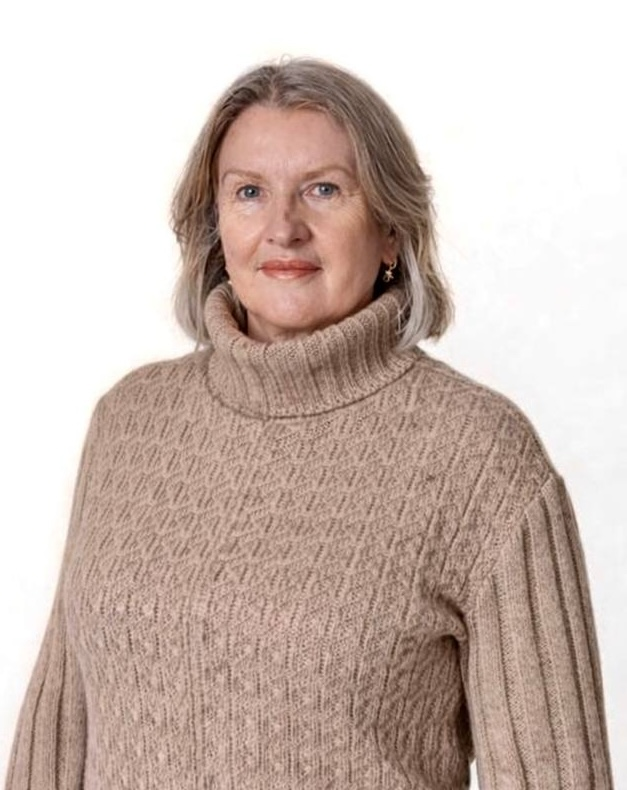
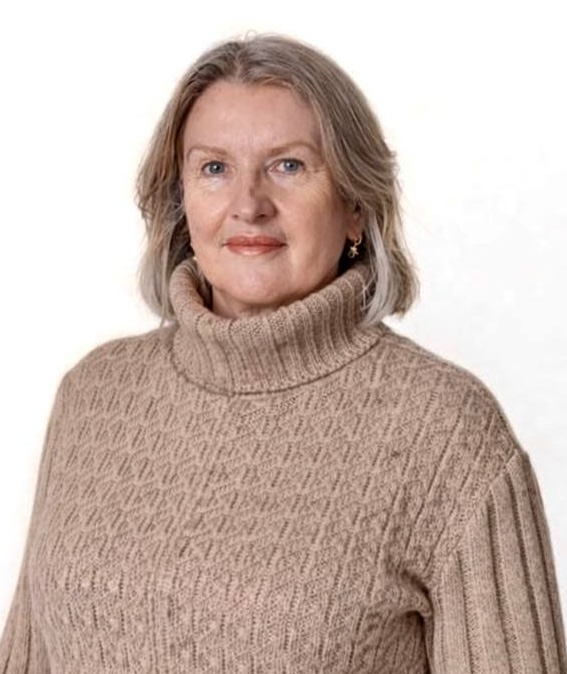
i18n: додати відсутні переклади хронології життя кафедри (EN/DE/FR)
Синхронізовано 42 ключі life.* з українською версією. Оновлено фото faculty-11.

Made-with: Cursor

Changed region(s): [[0.0, 0.0312, 1.0, 1.0]]

diff --git a/translations.js b/translations.js
@@ -876,6 +876,48 @@ window.BPBV_TRANSLATIONS = {
     'life.t6Date': '2023–2024',
     'life.t6Title': 'More events and excursions',
     'life.t6Text': 'Department students regularly visit production sites, take part in scientific conferences, tastings and masterclasses, gaining practical experience in real-world conditions.',
+    'life.t2bDate': '29 September 2024',
+    'life.t2bTitle': 'Lecture «From region to market» — geographical indications',
+    'life.t2bText': 'With support from Prof. Vitalii Prybylskyi, a lecture was held on «From region to market: geographical indications as a tool for promoting Ukrainian goods» within the «IP Connecting Students» project.',
+    'life.tSommelierDate': '2025',
+    'life.tSommelierTitle': 'Visit to the final of «Ukraine\'s Best Sommelier 2025»',
+    'life.tSommelierText': 'At the invitation of master\'s student Ivan Bachurin, department representatives Maryna Bilko and Roman Mukoid attended the competition final. The event brought together professionals from various fields.',
+    'life.tParisDate': 'Paris 2025',
+    'life.tParisTitle': 'Young wine tasters\' competition at Salon International De L\'Agriculture',
+    'life.tParisText': 'Students Vladyslav Mylnykov and Mariia Lytovchenko represented Ukraine at the international competition in Paris. The delegation was led by Prof. Maryna Bilko.',
+    'life.tNapoiDate': '2024–2025',
+    'life.tNapoiTitle': 'Business meeting «Beverages of Ukraine. Tea and coffee»',
+    'life.tNapoiText': 'NUFT lecturers took part in the business meeting. Assoc. Prof. Roman Mukoid moderated the discussion panel.',
+    'life.tMarulloDate': '2024',
+    'life.tMarulloTitle': 'Guest lecture by PhD Philip Marullo (Biolaffort, ISVV Bordeaux)',
+    'life.tMarulloText': 'Lecture within the joint project of UkrWineIndustry and NUFT. The topic was innovative microbiological approaches in white wine production.',
+    'life.tVarvar3Date': '2024',
+    'life.tVarvar3Title': 'Third-year students at Varvar brewery',
+    'life.tVarvar3Text': 'Third-year students and curator Roman Mukoid visited the Varvar brewery. The tour was led by chief brewer Anton Palamarchuk and chief technologist Olena Deryi.',
+    'life.tNemiroff3Date': '8 April 2024',
+    'life.tNemiroff3Title': 'Third-year students meet Nemiroff representatives',
+    'life.tNemiroff3Text': 'The department hosted a meeting of third-year students with representatives of Nemiroff (LVN LIMITED LLC). Agreements were reached on internships and employment.',
+    'life.tChervonoDate': '4 April 2024',
+    'life.tChervonoTitle': 'Excursion to Chervonoslobidskyi distillery',
+    'life.tChervonoText': 'Third-year students visited the Chervonoslobidskyi distillery state enterprise. The tour was guided by department graduate Ivan Dmytrovych Balokha.',
+    'life.tNemiroff2Date': '2024',
+    'life.tNemiroff2Title': 'Second-year students meet Nemiroff',
+    'life.tNemiroff2Text': 'The department organized a meeting of second-year students with Nemiroff representatives. The company is ready to offer internship opportunities.',
+    'life.tOPPDate': '24 January 2024',
+    'life.tOPPTitle': 'Educational programme working group session',
+    'life.tOPPText': 'Programme guarantor Prof. Vitalii Prybylskyi familiarized participants with the requirements for drafting the new edition of the educational programme.',
+    'life.tVashchukDate': '30 October 2023',
+    'life.tVashchukTitle': 'Guest lecture by Viktor Vashchuk (Silpo private breweries)',
+    'life.tVashchukText': 'Assoc. Prof. Roman Mukoid invited Viktor Vashchuk, project lead of «Silpo private breweries». Topic: «Current state and prospects of beer production in Ukraine and worldwide».',
+    'life.tVarvar17Date': '17 October 2023',
+    'life.tVarvar17Title': 'Visit to Varvar brewery mini-brewery (year 3)',
+    'life.tVarvar17Text': 'Students of groups TB-3-8 and TB-3-9sk visited the Varvar mini-brewery. The tour was led by chief microbiologist Olena Derii.',
+    'life.tBeer1Date': '2023',
+    'life.tBeer1Title': 'First-years at BeerMaster brewery',
+    'life.tBeer1Text': 'First-year students together with Assoc. Prof. Mykola Bondar visited BeerMaster brewery. The tour was led by chief technologist Oleksandr Rudenko.',
+    'life.tEatEasyDate': '11 October 2023',
+    'life.tEatEasyTitle': 'Introduction to kombucha technology at Eat Easy',
+    'life.tEatEasyText': 'First-year students together with Assoc. Prof. Mykola Bondar visited Eat Easy. Yevhen Khomets and Nazar Kosikovskyi introduced them to kombucha technology and laboratory work.',
     'gallery.tag': 'Gallery',
     'gallery.title': 'Highlights of <em>department life</em>',
     'cta.title': 'Ready to start your path in the world of fermentation?',
@@ -1297,6 +1339,48 @@ window.BPBV_TRANSLATIONS = {
     'life.t6Date': '2023–2024',
     'life.t6Title': 'Weitere Veranstaltungen und Exkursionen',
     'life.t6Text': 'Die Studierenden des Lehrstuhls besuchen regelmäßig Produktionsstätten, nehmen an wissenschaftlichen Konferenzen, Verkostungen und Masterclasses teil und sammeln praktische Erfahrung unter realen Bedingungen.',
+    'life.t2bDate': '29. September 2024',
+    'life.t2bTitle': 'Vortrag «Von der Region zum Markt» — geografische Angaben',
+    'life.t2bText': 'Mit Unterstützung von Prof. Witalij Prybylskyj fand ein Vortrag zum Thema «Von der Region zum Markt: geografische Angaben als Instrument zur Förderung ukrainischer Waren» im Rahmen des Projekts «IP Connecting Students» statt.',
+    'life.tSommelierDate': '2025',
+    'life.tSommelierTitle': 'Besuch des Finales «Bester Sommelier der Ukraine 2025»',
+    'life.tSommelierText': 'Auf Einladung des Masterstudierenden Iwan Bachurin nahmen die Vertreterinnen des Lehrstuhls Maryna Bilko und Roman Mukoid am Finale des Wettbewerbs teil. Die Veranstaltung brachte Fachleute aus unterschiedlichen Bereichen zusammen.',
+    'life.tParisDate': 'Paris 2025',
+    'life.tParisTitle': 'Wettbewerb junger Weinverkoster beim Salon International De L\'Agriculture',
+    'life.tParisText': 'Die Studierenden Wladyslaw Mylnykow und Marija Lytowtschenko vertraten die Ukraine beim internationalen Wettbewerb in Paris. Die Delegation wurde von Prof. Maryna Bilko geleitet.',
+    'life.tNapoiDate': '2024–2025',
+    'life.tNapoiTitle': 'Business-Treffen «Getränke der Ukraine. Tee und Kaffee»',
+    'life.tNapoiText': 'Lehrende der NUFT nahmen am Business-Treffen teil. Moderator des Diskussionspanels war Doz. Roman Mukoid.',
+    'life.tMarulloDate': '2024',
+    'life.tMarulloTitle': 'Gastvortrag von PhD Philipp Marullo (Biolaffort, ISVV Bordeaux)',
+    'life.tMarulloText': 'Vortrag im Rahmen des Gemeinschaftsprojekts von Ukrwinprom und NUFT. Thema waren innovative mikrobiologische Ansätze bei der Herstellung von Weißweinen.',
+    'life.tVarvar3Date': '2024',
+    'life.tVarvar3Title': 'Studierende des dritten Studienjahres in der Brauerei Varvar',
+    'life.tVarvar3Text': 'Studierende des dritten Jahres und Kurator Roman Mukoid besuchten die Brauerei «Varvar». Die Führung hielten der Chefbrauer Anton Palamarchuk und die Cheftechnologin Olena Deryi.',
+    'life.tNemiroff3Date': '8. April 2024',
+    'life.tNemiroff3Title': 'Treffen des dritten Jahres mit Vertretern von Nemiroff',
+    'life.tNemiroff3Text': 'Am Lehrstuhl fand ein Treffen von Studierenden des dritten Jahres mit Vertretern der Nemiroff LLC «LVN LIMITED» statt. Vereinbarungen zu Praktika und Beschäftigung wurden erzielt.',
+    'life.tChervonoDate': '4. April 2024',
+    'life.tChervonoTitle': 'Exkursion zur Spiritusbrennerei Tschervonoslobidskyj',
+    'life.tChervonoText': 'Studierende des dritten Jahres besuchten das Staatsunternehmen «Tschervonoslobidskyj Spiritusbetrieb». Die Exkursion führte der Absolvent des Lehrstuhls Iwan Dmytrowytsch Balocha.',
+    'life.tNemiroff2Date': '2024',
+    'life.tNemiroff2Title': 'Treffen des zweiten Jahres mit Nemiroff',
+    'life.tNemiroff2Text': 'Der Lehrstuhl organisierte ein Treffen von Studierenden des zweiten Jahres mit Vertretern von Nemiroff. Das Unternehmen ist bereit, Praktikumsmöglichkeiten anzubieten.',
+    'life.tOPPDate': '24. Januar 2024',
+    'life.tOPPTitle': 'Sitzung der Arbeitsgruppe zum Studienprogramm',
+    'life.tOPPText': 'Der Garant des Programms, Prof. Witalij Prybylskyj, informierte über die Anforderungen an die Ausarbeitung der neuen Fassung des Studienprogramms.',
+    'life.tVashchukDate': '30. Oktober 2023',
+    'life.tVashchukTitle': 'Gastvortrag von Wiktor Waschtschuk («Eigene Brauereien Silpo»)',
+    'life.tVashchukText': 'Doz. Roman Mukoid lud den Projektleiter «Eigene Brauereien Silpo», Wiktor Waschtschuk, ein. Thema: «Aktueller Stand und Perspektiven der Bierproduktion in der Ukraine und weltweit».',
+    'life.tVarvar17Date': '17. Oktober 2023',
+    'life.tVarvar17Title': 'Besuch der Mikrobrauerei Varvar brewery (3. Jahr)',
+    'life.tVarvar17Text': 'Studierende der Gruppen TB-3-8 und TB-3-9sk besuchten die Mikrobrauerei Varvar. Die Führung leitete die Chefmikrobiologin Olena Derii.',
+    'life.tBeer1Date': '2023',
+    'life.tBeer1Title': 'Erstsemester in der Brauerei BeerMaster',
+    'life.tBeer1Text': 'Erstsemester besuchten zusammen mit Doz. Mykola Bondar die Brauerei BeerMaster. Die Führung gab der Cheftechnologe Oleksandr Rudenko.',
+    'life.tEatEasyDate': '11. Oktober 2023',
+    'life.tEatEasyTitle': 'Kennenlernen der Kombucha-Technologie im Unternehmen «Eat Easy»',
+    'life.tEatEasyText': 'Erstsemester besuchten zusammen mit Doz. Mykola Bondar das Unternehmen «Eat Easy». Jewhen Chomez und Nazar Kosikowskyj stellten die Kombucha-Technologie und die Laborarbeit vor.',
     'gallery.tag': 'Galerie',
     'gallery.title': 'Höhepunkte des <em>Lehrstuhl-Lebens</em>',
     'cta.title': 'Bereit für Ihren Weg in der Welt der Gärung?',
@@ -1718,6 +1802,48 @@ window.BPBV_TRANSLATIONS = {
     'life.t6Date': '2023–2024',
     'life.t6Title': 'Encore plus d\'événements et d\'excursions',
     'life.t6Text': 'Les étudiants du département visitent régulièrement des sites de production, participent à des conférences scientifiques, dégustations et master classes, en acquérant une expérience pratique en conditions réelles.',
+    'life.t2bDate': '29 septembre 2024',
+    'life.t2bTitle': 'Conférence «De la région au marché» — indications géographiques',
+    'life.t2bText': 'Avec le soutien du prof. Vitalii Prybylskyi, une conférence a eu lieu sur «De la région au marché : les indications géographiques comme outil de promotion des produits ukrainiens» dans le cadre du projet «IP Connecting Students».',
+    'life.tSommelierDate': '2025',
+    'life.tSommelierTitle': 'Visite de la finale du concours «Meilleur sommelier d\'Ukraine 2025»',
+    'life.tSommelierText': 'Sur invitation du masterand Ivan Bachurin, les représentants du département Maryna Bilko et Roman Mukoid ont assisté à la finale du concours. L\'événement a réuni des professionnels de différents domaines.',
+    'life.tParisDate': 'Paris 2025',
+    'life.tParisTitle': 'Concours de jeunes dégustateurs de vin au Salon International De L\'Agriculture',
+    'life.tParisText': 'Les étudiants Vladyslav Mylnykov et Mariia Lytovchenko ont représenté l\'Ukraine au concours international à Paris. La délégation était dirigée par la prof. Maryna Bilko.',
+    'life.tNapoiDate': '2024–2025',
+    'life.tNapoiTitle': 'Rencontre d\'affaires «Boissons d\'Ukraine. Thé et café»',
+    'life.tNapoiText': 'Des enseignants de la NUFT ont pris part à la rencontre. Le maître de conférences Roman Mukoid a modéré le panel de discussion.',
+    'life.tMarulloDate': '2024',
+    'life.tMarulloTitle': 'Conférence invitée du PhD Philip Marullo (Biolaffort, ISVV Bordeaux)',
+    'life.tMarulloText': 'Conférence dans le cadre du projet conjoint Ukrwinprom et NUFT. Sujet : approches microbiologiques innovantes dans la production de vins blancs.',
+    'life.tVarvar3Date': '2024',
+    'life.tVarvar3Title': 'Étudiants de 3e année à la brasserie Varvar',
+    'life.tVarvar3Text': 'Les étudiants de troisième année et le tuteur Roman Mukoid ont visité la brasserie «Varvar». La visite a été animée par le brasseur en chef Anton Palamarchuk et la cheffe technologue Olena Deryi.',
+    'life.tNemiroff3Date': '8 avril 2024',
+    'life.tNemiroff3Title': 'Rencontre de la 3e année avec des représentants de Nemiroff',
+    'life.tNemiroff3Text': 'Le département a accueilli une rencontre des étudiants de troisième année avec des porte-parole de la SARL «LVN LIMITED» Nemiroff. Accords sur les stages et l\'emploi.',
+    'life.tChervonoDate': '4 avril 2024',
+    'life.tChervonoTitle': 'Excursion à la distillerie de Tchervonoslobidske',
+    'life.tChervonoText': 'Les étudiants de 3e année ont visité l\'entreprise d\'État «Distillerie de Tchervonoslobidske». La visite était guidée par l\'ancien du département Ivan Dmytrovych Balokha.',
+    'life.tNemiroff2Date': '2024',
+    'life.tNemiroff2Title': 'Rencontre de la 2e année avec Nemiroff',
+    'life.tNemiroff2Text': 'Le département a organisé une rencontre des étudiants de deuxième année avec des représentants de Nemiroff. L\'entreprise est prête à proposer des stages.',
+    'life.tOPPDate': '24 janvier 2024',
+    'life.tOPPTitle': 'Réunion du groupe de travail sur le programme d\'études',
+    'life.tOPPText': 'Le garant du programme, le prof. Vitalii Prybylskyi, a présenté les exigences pour l\'élaboration de la nouvelle version du programme d\'études.',
+    'life.tVashchukDate': '30 octobre 2023',
+    'life.tVashchukTitle': 'Conférence invitée de Viktor Vashchuk (brasseries privées Silpo)',
+    'life.tVashchukText': 'Le maître de conférences Roman Mukoid a invité Viktor Vashchuk, responsable des projets «Brasseries privées Silpo». Sujet : «État actuel et perspectives de la production de bière en Ukraine et dans le monde».',
+    'life.tVarvar17Date': '17 octobre 2023',
+    'life.tVarvar17Title': 'Visite de la microbrasserie Varvar brewery (3e année)',
+    'life.tVarvar17Text': 'Les étudiants des groupes TB-3-8 et TB-3-9sk ont visité la microbrasserie Varvar. La visite était assurée par la microbiologiste en chef Olena Derii.',
+    'life.tBeer1Date': '2023',
+    'life.tBeer1Title': 'Étudiants de 1re année à la brasserie BeerMaster',
+    'life.tBeer1Text': 'Les étudiants de première année avec le maître de conférences Mykola Bondar ont visité la brasserie BeerMaster. Visite conduite par le chef technologue Oleksandr Rudenko.',
+    'life.tEatEasyDate': '11 octobre 2023',
+    'life.tEatEasyTitle': 'Découverte de la technologie du kombucha chez «Eat Easy»',
+    'life.tEatEasyText': 'Les étudiants de première année avec le maître de conférences Mykola Bondar ont visité «Eat Easy». Yevhen Khomets et Nazar Kosikovskyi ont présenté la technologie du kombucha et le travail en laboratoire.',
     'gallery.tag': 'Galerie',
     'gallery.title': 'Temps forts de la <em>vie du département</em>',
     'cta.title': 'Prêt à commencer votre parcours dans le monde de la fermentation ?',
